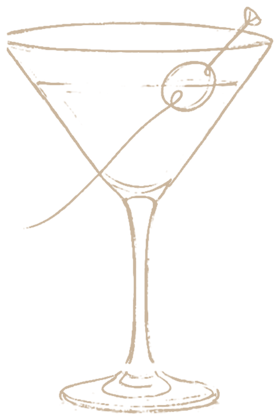
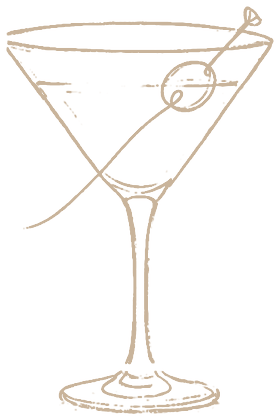
The Day: even out the line strength of every drawing to match the evening meal

diff --git a/the-day.html b/the-day.html
@@ -9,7 +9,7 @@
 <link rel="preconnect" href="https://fonts.googleapis.com" />
 <link rel="preconnect" href="https://fonts.gstatic.com" crossorigin />
 <link href="https://fonts.googleapis.com/css2?family=Cormorant+Garamond:ital,wght@0,400;0,500;0,600;1,400&family=Jost:wght@300;400;500;600;700&family=Pinyon+Script&family=Playfair+Display:ital,wght@0,500;0,600;1,500&family=Bodoni+Moda:ital,wght@0,500;0,600;1,500&family=Cinzel:wght@500;600&family=Marcellus&family=Prata&display=swap" rel="stylesheet" />
-<link rel="stylesheet" href="style.css?v=48" />
+<link rel="stylesheet" href="style.css?v=49" />
 </head>
 <body>
 
@@ -39,22 +39,22 @@
       <hr class="divider" aria-hidden="true" />
     </div>
     <div class="timeline">
-      <div class="tl-item tl-item--art"><div class="tl-text"><div class="tl-time">11:45 am</div><div class="tl-label">Guests Arrive</div><div class="tl-note">Welcome, and a &lsquo;getting comfy&rsquo; half hour</div></div><div class="tl-art tl-art--r"><img src="Photos/itinerary/guests.png?v=10" alt="" loading="lazy"></div></div>
-      <div class="tl-item tl-item--art"><div class="tl-art tl-art--l"><img src="Photos/itinerary/seated.png?v=10" alt="" loading="lazy"></div><div class="tl-text"><div class="tl-time">12:15 pm</div><div class="tl-label">Please Be Seated</div><div class="tl-note">Guests are seated while the registrar speaks with the couple</div></div></div>
-      <div class="tl-item tl-item--art"><div class="tl-text"><div class="tl-time">12:30 pm</div><div class="tl-label">The Ceremony</div><div class="tl-note">The main event &ndash; it&rsquo;s time to make it official!</div></div><div class="tl-art tl-art--r"><img src="Photos/itinerary/ceremony.png?v=10" alt="" loading="lazy"></div></div>
-      <div class="tl-item tl-item--art"><div class="tl-art tl-art--l"><img src="Photos/itinerary/camera.png?v=10" alt="" loading="lazy"></div><div class="tl-text"><div class="tl-time">1:00 pm</div><div class="tl-label">Drinks Reception &amp; Photographs</div><div class="tl-note"></div></div></div>
-      <div class="tl-item tl-item--art"><div class="tl-text"><div class="tl-time">1:15 pm</div><div class="tl-label">Canap&eacute;s</div><div class="tl-note">Served during the drinks reception</div></div><div class="tl-art tl-art--r"><img src="Photos/itinerary/canapes.png?v=10" alt="" loading="lazy"></div></div>
-      <div class="tl-item tl-item--art"><div class="tl-art tl-art--l"><img src="Photos/itinerary/tower.png?v=10" alt="" loading="lazy"></div><div class="tl-text"><div class="tl-time">2:30 pm</div><div class="tl-label">Into the Ballroom</div><div class="tl-note">Guests are moved through to the Ballroom</div></div></div>
-      <div class="tl-item tl-item--art"><div class="tl-text"><div class="tl-time">2:45 pm</div><div class="tl-label">The Happy Couple</div><div class="tl-note">The Master of Ceremonies announces Jessica &amp; Matthew</div></div><div class="tl-art tl-art--r"><img src="Photos/itinerary/couple.png?v=10" alt="" loading="lazy"></div></div>
-      <div class="tl-item tl-item--art"><div class="tl-art tl-art--l"><img src="Photos/itinerary/toast.png?v=10" alt="" loading="lazy"></div><div class="tl-text"><div class="tl-time">3:00 pm</div><div class="tl-label">Speeches &amp; Toast</div><div class="tl-note"></div></div></div>
-      <div class="tl-item tl-item--art"><div class="tl-text"><div class="tl-time">3:30 pm</div><div class="tl-label">Wedding Breakfast</div><div class="tl-note">The wedding breakfast is served</div></div><div class="tl-art tl-art--r"><img src="Photos/itinerary/breakfast.png?v=10" alt="" loading="lazy"></div></div>
-      <div class="tl-item tl-item--art"><div class="tl-art tl-art--l"><img src="Photos/itinerary/cocktail.png?v=10" alt="" loading="lazy"></div><div class="tl-text"><div class="tl-time">5:30 pm</div><div class="tl-label">Refreshment Hour</div><div class="tl-note">An hour of refreshment time before we meet back for the evening</div></div></div>
-      <div class="tl-item tl-item--art"><div class="tl-text"><div class="tl-time">6:30 pm</div><div class="tl-label">Evening Guests Arrive</div><div class="tl-note">Evening guests arrive and the cake is cut</div></div><div class="tl-art tl-art--r"><img src="Photos/itinerary/cake.png?v=10" alt="" loading="lazy"></div></div>
-      <div class="tl-item tl-item--art"><div class="tl-art tl-art--l"><img src="Photos/itinerary/dance.png?v=10" alt="" loading="lazy"></div><div class="tl-text"><div class="tl-time">7:00 pm</div><div class="tl-label">First Dance</div><div class="tl-note"></div></div></div>
-      <div class="tl-item tl-item--art"><div class="tl-text"><div class="tl-time">8:30 pm</div><div class="tl-label">Evening Food</div><div class="tl-note">Evening food is served</div></div><div class="tl-art tl-art--r"><img src="Photos/itinerary/dinner.png?v=10" alt="" loading="lazy"></div></div>
-      <div class="tl-item tl-item--art"><div class="tl-art tl-art--l"><img src="Photos/itinerary/taxi.png?v=10" alt="" loading="lazy"></div><div class="tl-text"><div class="tl-time">12:00 am</div><div class="tl-label">Farewell</div><div class="tl-note">The bar closes, the music finishes and guests depart</div></div></div>
+      <div class="tl-item tl-item--art"><div class="tl-text"><div class="tl-time">11:45 am</div><div class="tl-label">Guests Arrive</div><div class="tl-note">Welcome, and a &lsquo;getting comfy&rsquo; half hour</div></div><div class="tl-art tl-art--r"><img src="Photos/itinerary/guests.png?v=11" alt="" loading="lazy"></div></div>
+      <div class="tl-item tl-item--art"><div class="tl-art tl-art--l"><img src="Photos/itinerary/seated.png?v=11" alt="" loading="lazy"></div><div class="tl-text"><div class="tl-time">12:15 pm</div><div class="tl-label">Please Be Seated</div><div class="tl-note">Guests are seated while the registrar speaks with the couple</div></div></div>
+      <div class="tl-item tl-item--art"><div class="tl-text"><div class="tl-time">12:30 pm</div><div class="tl-label">The Ceremony</div><div class="tl-note">The main event &ndash; it&rsquo;s time to make it official!</div></div><div class="tl-art tl-art--r"><img src="Photos/itinerary/ceremony.png?v=11" alt="" loading="lazy"></div></div>
+      <div class="tl-item tl-item--art"><div class="tl-art tl-art--l"><img src="Photos/itinerary/camera.png?v=11" alt="" loading="lazy"></div><div class="tl-text"><div class="tl-time">1:00 pm</div><div class="tl-label">Drinks Reception &amp; Photographs</div><div class="tl-note"></div></div></div>
+      <div class="tl-item tl-item--art"><div class="tl-text"><div class="tl-time">1:15 pm</div><div class="tl-label">Canap&eacute;s</div><div class="tl-note">Served during the drinks reception</div></div><div class="tl-art tl-art--r"><img src="Photos/itinerary/canapes.png?v=11" alt="" loading="lazy"></div></div>
+      <div class="tl-item tl-item--art"><div class="tl-art tl-art--l"><img src="Photos/itinerary/tower.png?v=11" alt="" loading="lazy"></div><div class="tl-text"><div class="tl-time">2:30 pm</div><div class="tl-label">Into the Ballroom</div><div class="tl-note">Guests are moved through to the Ballroom</div></div></div>
+      <div class="tl-item tl-item--art"><div class="tl-text"><div class="tl-time">2:45 pm</div><div class="tl-label">The Happy Couple</div><div class="tl-note">The Master of Ceremonies announces Jessica &amp; Matthew</div></div><div class="tl-art tl-art--r"><img src="Photos/itinerary/couple.png?v=11" alt="" loading="lazy"></div></div>
+      <div class="tl-item tl-item--art"><div class="tl-art tl-art--l"><img src="Photos/itinerary/toast.png?v=11" alt="" loading="lazy"></div><div class="tl-text"><div class="tl-time">3:00 pm</div><div class="tl-label">Speeches &amp; Toast</div><div class="tl-note"></div></div></div>
+      <div class="tl-item tl-item--art"><div class="tl-text"><div class="tl-time">3:30 pm</div><div class="tl-label">Wedding Breakfast</div><div class="tl-note">The wedding breakfast is served</div></div><div class="tl-art tl-art--r"><img src="Photos/itinerary/breakfast.png?v=11" alt="" loading="lazy"></div></div>
+      <div class="tl-item tl-item--art"><div class="tl-art tl-art--l"><img src="Photos/itinerary/cocktail.png?v=11" alt="" loading="lazy"></div><div class="tl-text"><div class="tl-time">5:30 pm</div><div class="tl-label">Refreshment Hour</div><div class="tl-note">An hour of refreshment time before we meet back for the evening</div></div></div>
+      <div class="tl-item tl-item--art"><div class="tl-text"><div class="tl-time">6:30 pm</div><div class="tl-label">Evening Guests Arrive</div><div class="tl-note">Evening guests arrive and the cake is cut</div></div><div class="tl-art tl-art--r"><img src="Photos/itinerary/cake.png?v=11" alt="" loading="lazy"></div></div>
+      <div class="tl-item tl-item--art"><div class="tl-art tl-art--l"><img src="Photos/itinerary/dance.png?v=11" alt="" loading="lazy"></div><div class="tl-text"><div class="tl-time">7:00 pm</div><div class="tl-label">First Dance</div><div class="tl-note"></div></div></div>
+      <div class="tl-item tl-item--art"><div class="tl-text"><div class="tl-time">8:30 pm</div><div class="tl-label">Evening Food</div><div class="tl-note">Evening food is served</div></div><div class="tl-art tl-art--r"><img src="Photos/itinerary/dinner.png?v=11" alt="" loading="lazy"></div></div>
+      <div class="tl-item tl-item--art"><div class="tl-art tl-art--l"><img src="Photos/itinerary/taxi.png?v=11" alt="" loading="lazy"></div><div class="tl-text"><div class="tl-time">12:00 am</div><div class="tl-label">Farewell</div><div class="tl-note">The bar closes, the music finishes and guests depart</div></div></div>
     </div>
-    <div class="day-end" aria-hidden="true"><img src="Photos/itinerary/farewell.png?v=10" alt="" loading="lazy"></div>
+    <div class="day-end" aria-hidden="true"><img src="Photos/itinerary/farewell.png?v=11" alt="" loading="lazy"></div>
   </section>
 
   </main>

diff --git a/index.html b/index.html
@@ -19,7 +19,7 @@
 <link rel="preconnect" href="https://fonts.googleapis.com" />
 <link rel="preconnect" href="https://fonts.gstatic.com" crossorigin />
 <link href="https://fonts.googleapis.com/css2?family=Cormorant+Garamond:ital,wght@0,400;0,500;0,600;1,400&family=Jost:wght@300;400;500;600;700&family=Pinyon+Script&family=Playfair+Display:ital,wght@0,500;0,600;1,500&family=Bodoni+Moda:ital,wght@0,500;0,600;1,500&family=Cinzel:wght@500;600&family=Marcellus&family=Prata&display=swap" rel="stylesheet" />
-<link rel="stylesheet" href="style.css?v=48" />
+<link rel="stylesheet" href="style.css?v=49" />
 </head>
 <body>
 

diff --git a/faq.html b/faq.html
@@ -9,7 +9,7 @@
 <link rel="preconnect" href="https://fonts.googleapis.com" />
 <link rel="preconnect" href="https://fonts.gstatic.com" crossorigin />
 <link href="https://fonts.googleapis.com/css2?family=Cormorant+Garamond:ital,wght@0,400;0,500;0,600;1,400&family=Jost:wght@300;400;500;600;700&family=Pinyon+Script&family=Playfair+Display:ital,wght@0,500;0,600;1,500&family=Bodoni+Moda:ital,wght@0,500;0,600;1,500&family=Cinzel:wght@500;600&family=Marcellus&family=Prata&display=swap" rel="stylesheet" />
-<link rel="stylesheet" href="style.css?v=48" />
+<link rel="stylesheet" href="style.css?v=49" />
 </head>
 <body>
 

diff --git a/registry.html b/registry.html
@@ -9,7 +9,7 @@
 <link rel="preconnect" href="https://fonts.googleapis.com" />
 <link rel="preconnect" href="https://fonts.gstatic.com" crossorigin />
 <link href="https://fonts.googleapis.com/css2?family=Cormorant+Garamond:ital,wght@0,400;0,500;0,600;1,400&family=Jost:wght@300;400;500;600;700&family=Pinyon+Script&family=Playfair+Display:ital,wght@0,500;0,600;1,500&family=Bodoni+Moda:ital,wght@0,500;0,600;1,500&family=Cinzel:wght@500;600&family=Marcellus&family=Prata&display=swap" rel="stylesheet" />
-<link rel="stylesheet" href="style.css?v=48" />
+<link rel="stylesheet" href="style.css?v=49" />
 </head>
 <body>
 

diff --git a/rsvp.html b/rsvp.html
@@ -9,7 +9,7 @@
 <link rel="preconnect" href="https://fonts.googleapis.com" />
 <link rel="preconnect" href="https://fonts.gstatic.com" crossorigin />
 <link href="https://fonts.googleapis.com/css2?family=Cormorant+Garamond:ital,wght@0,400;0,500;0,600;1,400&family=Jost:wght@300;400;500;600;700&family=Pinyon+Script&family=Playfair+Display:ital,wght@0,500;0,600;1,500&family=Bodoni+Moda:ital,wght@0,500;0,600;1,500&family=Cinzel:wght@500;600&family=Marcellus&family=Prata&display=swap" rel="stylesheet" />
-<link rel="stylesheet" href="style.css?v=48" />
+<link rel="stylesheet" href="style.css?v=49" />
 </head>
 <body>
 

diff --git a/things-to-do.html b/things-to-do.html
@@ -9,7 +9,7 @@
 <link rel="preconnect" href="https://fonts.googleapis.com" />
 <link rel="preconnect" href="https://fonts.gstatic.com" crossorigin />
 <link href="https://fonts.googleapis.com/css2?family=Cormorant+Garamond:ital,wght@0,400;0,500;0,600;1,400&family=Jost:wght@300;400;500;600;700&family=Pinyon+Script&family=Playfair+Display:ital,wght@0,500;0,600;1,500&family=Bodoni+Moda:ital,wght@0,500;0,600;1,500&family=Cinzel:wght@500;600&family=Marcellus&family=Prata&display=swap" rel="stylesheet" />
-<link rel="stylesheet" href="style.css?v=48" />
+<link rel="stylesheet" href="style.css?v=49" />
 </head>
 <body>
 

diff --git a/travel.html b/travel.html
@@ -9,7 +9,7 @@
 <link rel="preconnect" href="https://fonts.googleapis.com" />
 <link rel="preconnect" href="https://fonts.gstatic.com" crossorigin />
 <link href="https://fonts.googleapis.com/css2?family=Cormorant+Garamond:ital,wght@0,400;0,500;0,600;1,400&family=Jost:wght@300;400;500;600;700&family=Pinyon+Script&family=Playfair+Display:ital,wght@0,500;0,600;1,500&family=Bodoni+Moda:ital,wght@0,500;0,600;1,500&family=Cinzel:wght@500;600&family=Marcellus&family=Prata&display=swap" rel="stylesheet" />
-<link rel="stylesheet" href="style.css?v=48" />
+<link rel="stylesheet" href="style.css?v=49" />
 </head>
 <body>
 

diff --git a/wedding-party.html b/wedding-party.html
@@ -9,7 +9,7 @@
 <link rel="preconnect" href="https://fonts.googleapis.com" />
 <link rel="preconnect" href="https://fonts.gstatic.com" crossorigin />
 <link href="https://fonts.googleapis.com/css2?family=Cormorant+Garamond:ital,wght@0,400;0,500;0,600;1,400&family=Jost:wght@300;400;500;600;700&family=Pinyon+Script&family=Playfair+Display:ital,wght@0,500;0,600;1,500&family=Bodoni+Moda:ital,wght@0,500;0,600;1,500&family=Cinzel:wght@500;600&family=Marcellus&family=Prata&display=swap" rel="stylesheet" />
-<link rel="stylesheet" href="style.css?v=48" />
+<link rel="stylesheet" href="style.css?v=49" />
 </head>
 <body>
 
